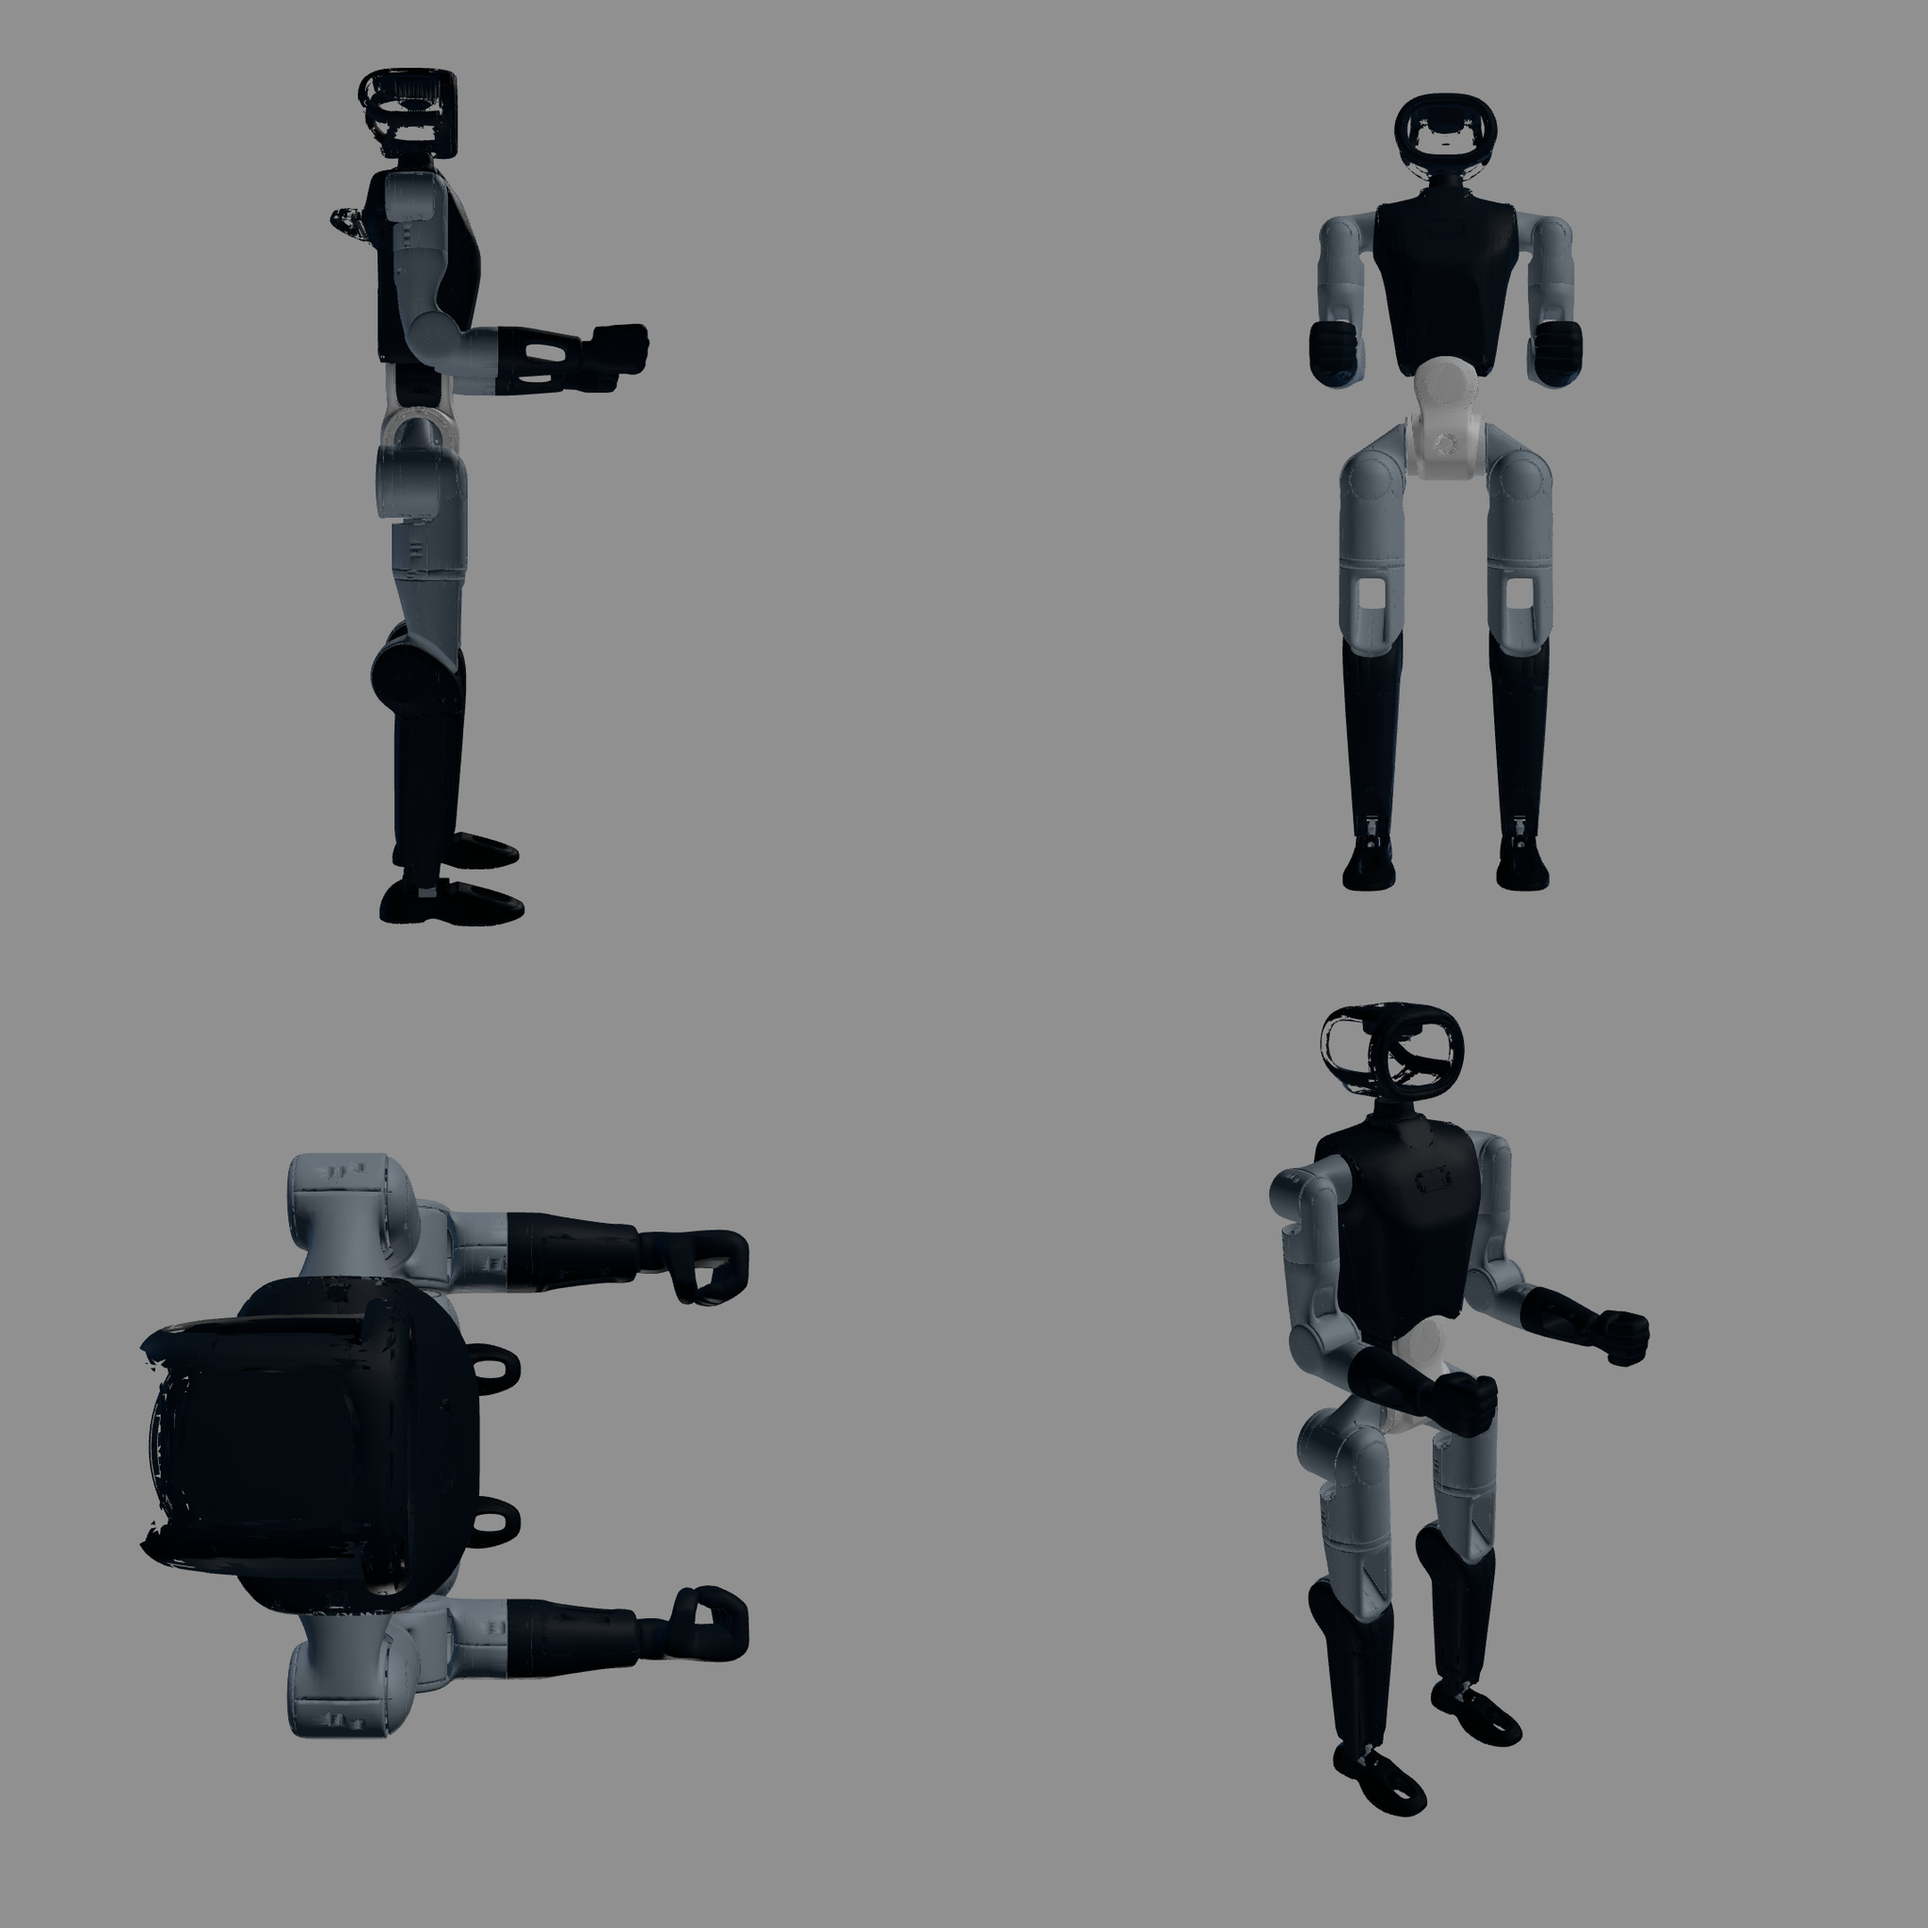
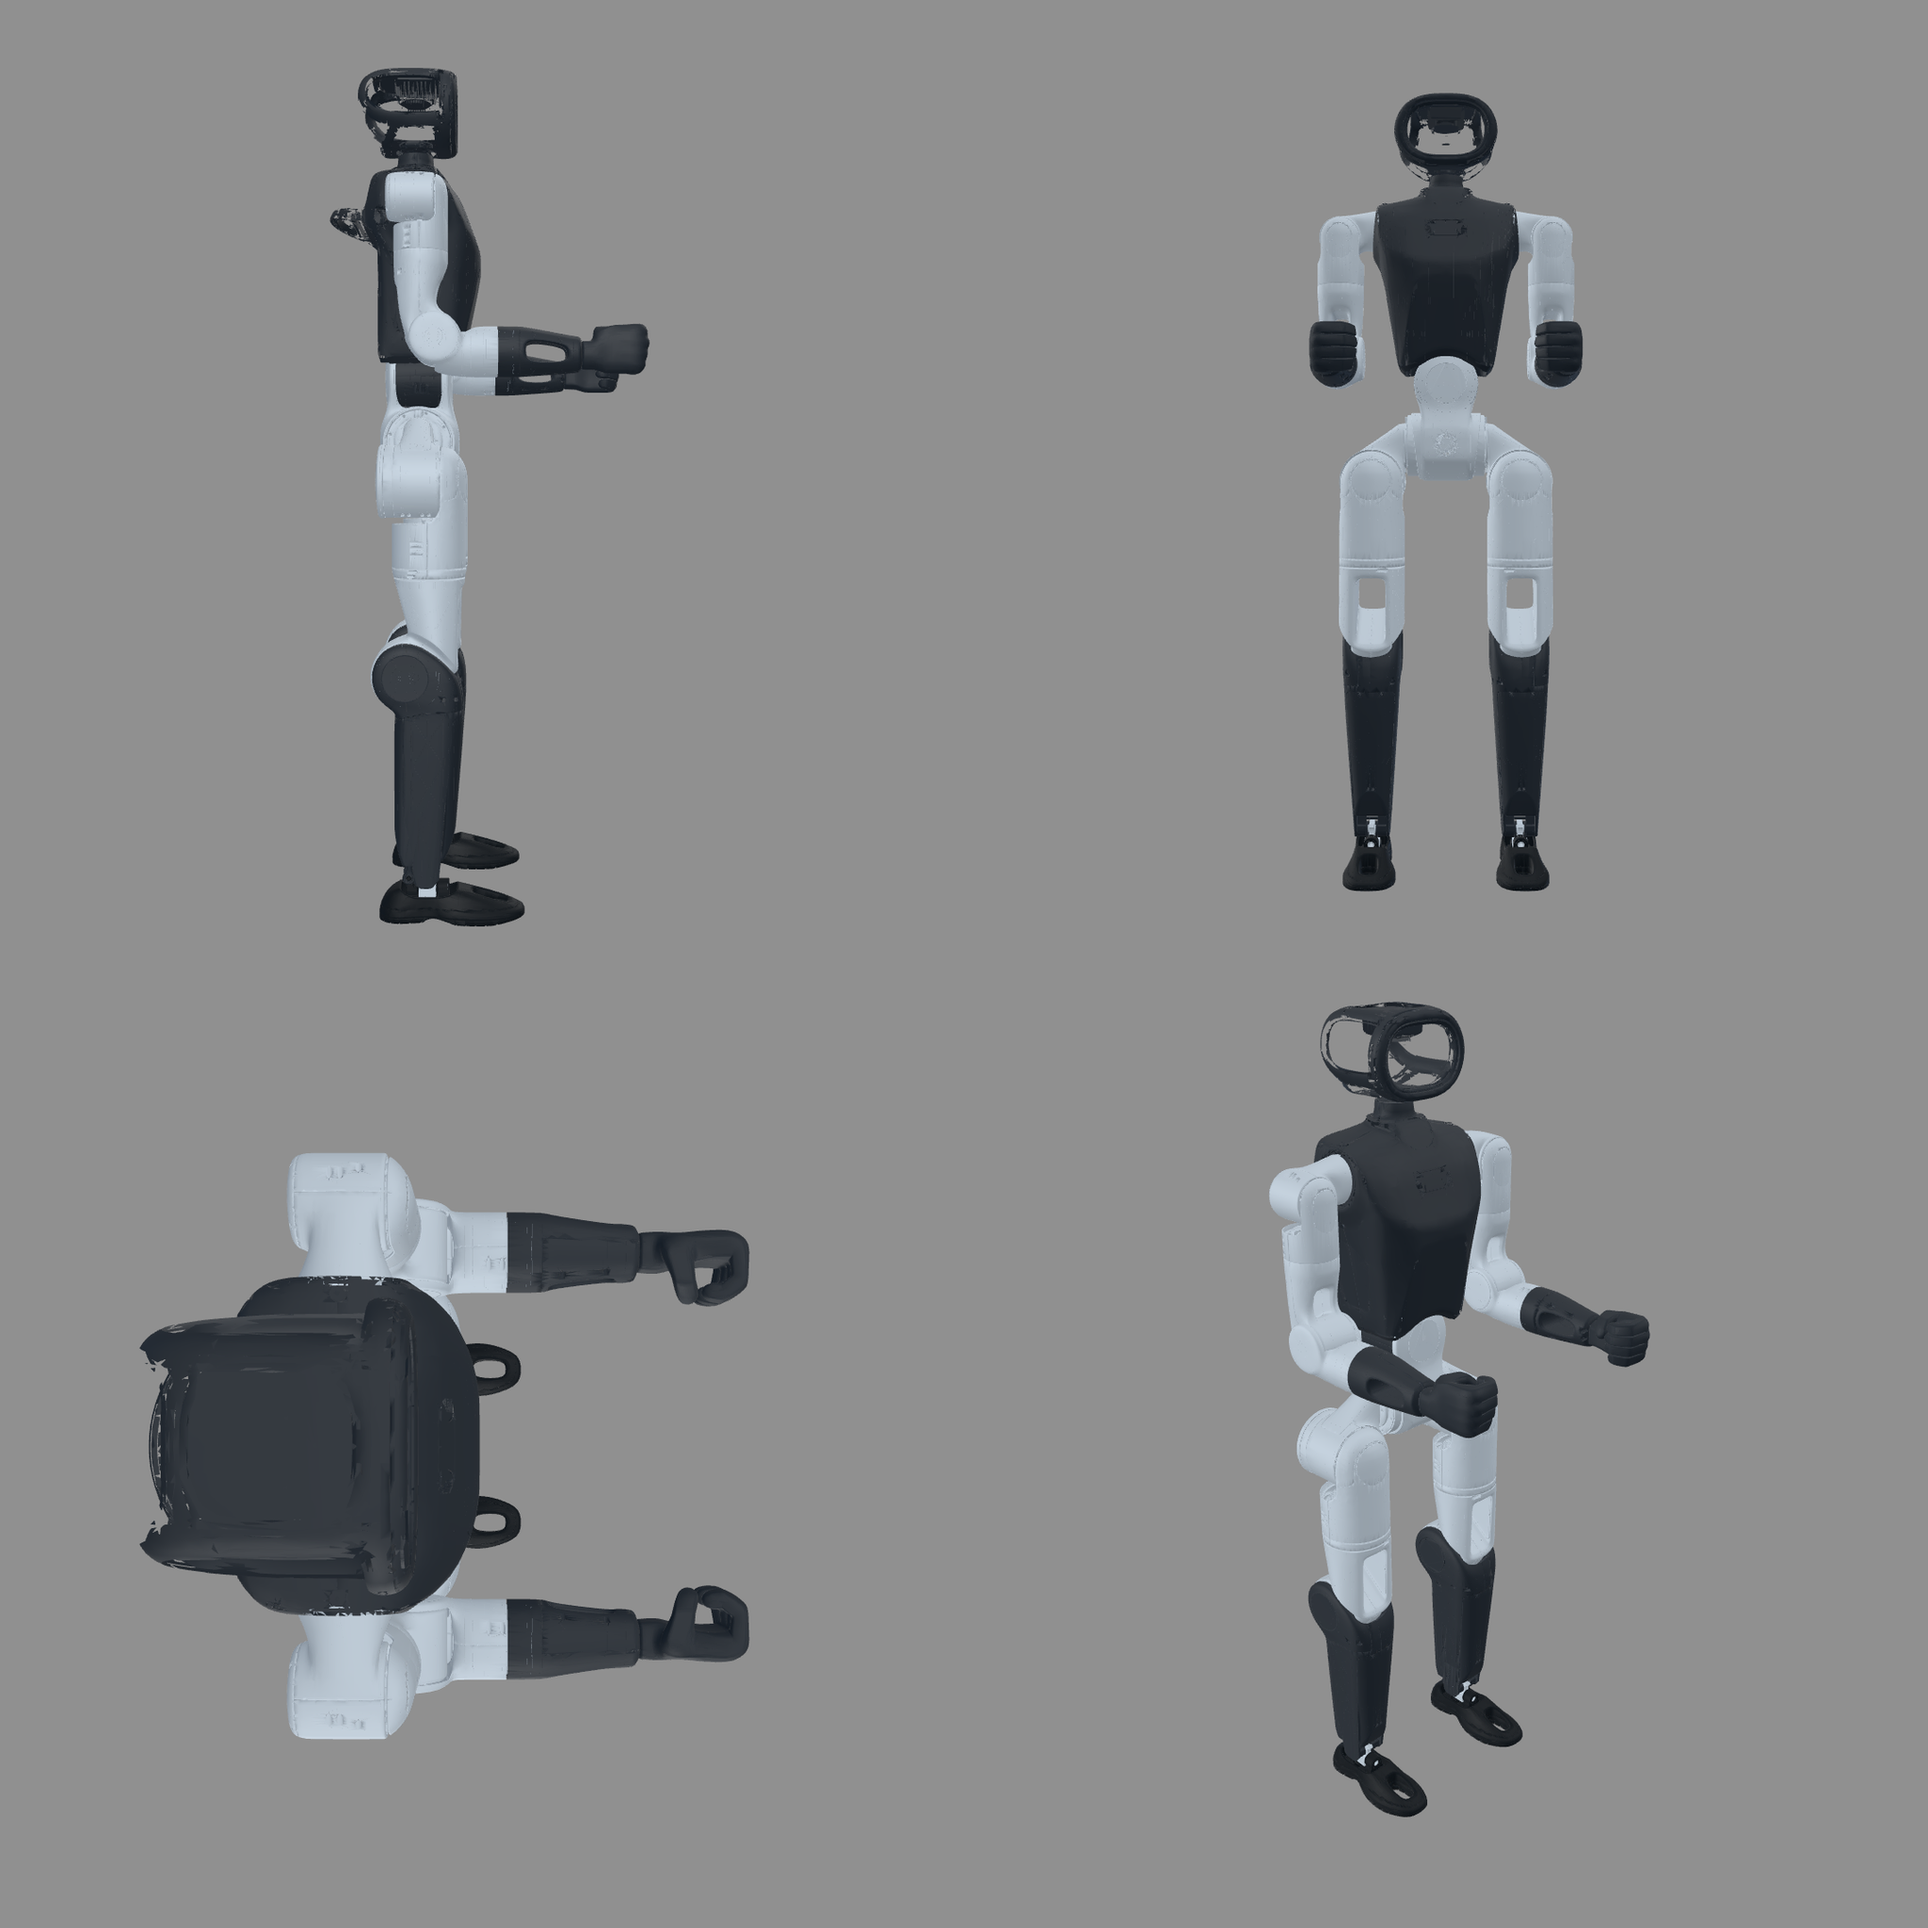
fix(gallery): verify roboto-01 exact reimport and fix the waist finish
The roboto-01 gallery entry is an exact-surface reimport: all 25 links are the pinned upstream RoboParty STLs loaded unchanged. The supplied base_link mesh includes the waist joint cover, an open multi-shell surface; rendering it white made the hollow cover read as a blown-out glue patch between the torso and hips. Paint that link anodized light grey and use a matte PBR finish so the open shells read as joint hardware without touching the geometry.

Add verify-identity.mjs, which checks every part against the pinned MESH-SOURCES.txt hashes and asserts the model only applies the metre->mm scale and the PBR finish. Update the README with the identity check, the exact-surface scope, and the fact that these are display bodies (not watertight BRep solids) so the interference gate is a kinematic mate/pose check.

diff --git a/examples/gallery/roboto-01.kcad.ts b/examples/gallery/roboto-01.kcad.ts
@@ -71,12 +71,21 @@ const rp1 = assembly('roboto-01-rp1');
 // STL is already expressed relative to its link. The joint mates place every
 // child at its parent's joint origin and drive it with the pose parameters, so
 // no transform is pre-baked into the mesh (that would double-place the chain).
-const paintFor = (name: string) => name.includes('ankle_roll') ? rubber
+// The base_link visual includes the waist joint cover. It is painted anodized
+// light grey so the open multi-shell cover reads as joint hardware instead of
+// a blown-out white glue patch between the torso and hips.
+// The geometry is untouched; only the finish changes.
+const paintFor = (name: string) => name === 'base_link' ? anodized
+  : name.includes('ankle_roll') ? rubber
   : name.includes('hip') || name.includes('shoulder') || name.includes('elbow') || name.includes('ankle_pitch') ? anodized
   : name.includes('waist') ? graphite
   : name.includes('knee') || name.includes('wrist') ? graphite : shellWhite;
+// Geometry stays byte-identical to the upstream STL. Only the unit scale and
+// the PBR finish are applied; no shape operations are allowed here.
 const loadLink = async (name: string) =>
-  (await lib.meshFromSTL(`./roboto-01/meshes/${name}.STL`)).scale(1000).color(paintFor(name));
+  (await lib.meshFromSTL(`./roboto-01/meshes/${name}.STL`))
+    .scale(1000)
+    .material({ baseColor: paintFor(name), metalness: 0.05, roughness: 0.75 });
 const refs: Record<string, ReturnType<typeof rp1.part>> = {
   base_link: rp1.part('base_link', await loadLink('base_link')),
 };

diff --git a/examples/gallery/roboto-01/README.md b/examples/gallery/roboto-01/README.md
@@ -13,6 +13,39 @@ are converted from metres to millimetres, axes are preserved, and radians are
 converted to degrees. Joint pose parameters default to zero and remain editable
 within the published limits.
 
+## Exact-surface reimport
+
+This entry is an exact-surface reimport, not a from-scratch reconstruction.
+Every link body is the original upstream STL, unchanged. `verify-identity.mjs`
+checks each part against the pinned `MESH-SOURCES.txt` manifest and against the
+model source:
+
+- the bundled file hash and byte count match the pinned upstream mesh;
+- the model loads that exact `roboto-01/meshes/<link>.STL` file;
+- the only operations applied to a loaded body are the metre→millimetre
+  `.scale(1000)` and the PBR `.material(...)` finish.
+
+```bash
+node examples/gallery/roboto-01/verify-identity.mjs
+```
+
+The expected result is `25/25 parts are byte-identical to the pinned upstream meshes`.
+
+Two finish-only adjustments keep the supplied visual shells readable:
+
+- `base_link` is painted anodized light grey. Its mesh contains the waist joint
+  cover, an open multi-shell surface; rendering it white made the hollow
+  interior read as a blown-out "glue" patch between the torso and hips.
+- all bodies use a matte PBR finish (metalness 0.05, roughness 0.75) instead of
+  a glossy one, which suppresses coplanar-surface speckle on the dark shells.
+
+Neither change touches the geometry. The upstream visual meshes are open,
+multi-shell display geometry (for example `waist_yaw_link.STL` has ~41k open
+boundary edges and `base_link.STL` has non-manifold overlapping faces), so
+they are intentionally not converted into watertight BRep solids. A true
+solids/booleans model would need RoboParty's original per-link CAD assembly
+rather than these visual STLs.
+
 Per Andrii's decision, the RoboParty hardware visuals are attributed to
 RoboParty and covered by CERN-OHL-W-2.0, following the `rp1_hardware` source.
 See [NOTICE](NOTICE) for the pinned description commit, source links, license
@@ -21,10 +54,13 @@ text and scope. No Parasolid, SLDASM or STEP archives are included.
 ## Run
 
 ```bash
+node examples/gallery/roboto-01/verify-identity.mjs
 npx tsx src/agent/cli/index.ts evaluate examples/gallery/roboto-01.kcad.ts
 npx tsx src/agent/cli/index.ts validate examples/gallery/roboto-01.kcad.ts --no-include-physics
 npx tsx src/agent/cli/index.ts render examples/gallery/roboto-01.kcad.ts --pose 30,18 -o examples/gallery/roboto-01/hero.png
 ```
 
 Evaluation and rendering establish local model behavior only. They are not a
-full robot simulation, deployed behavior, or hardware acceptance.
+full robot simulation, deployed behavior, or hardware acceptance. Because the
+link bodies are display meshes, `validate --include-interference` is a kinematic
+mate/pose check, not a BRep common-volume clash check.
